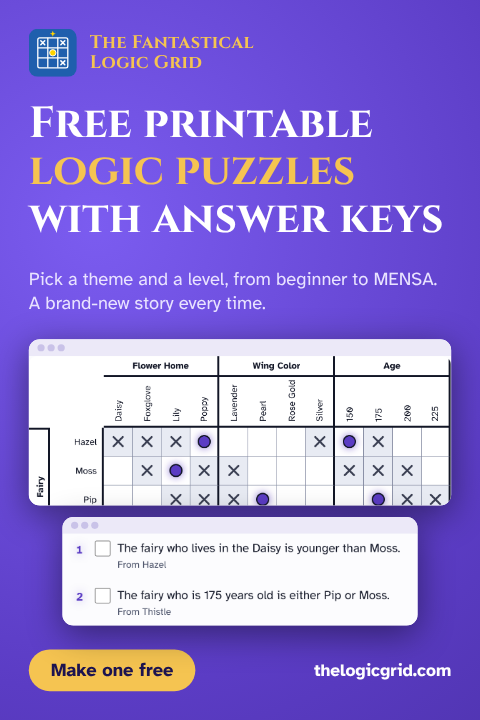
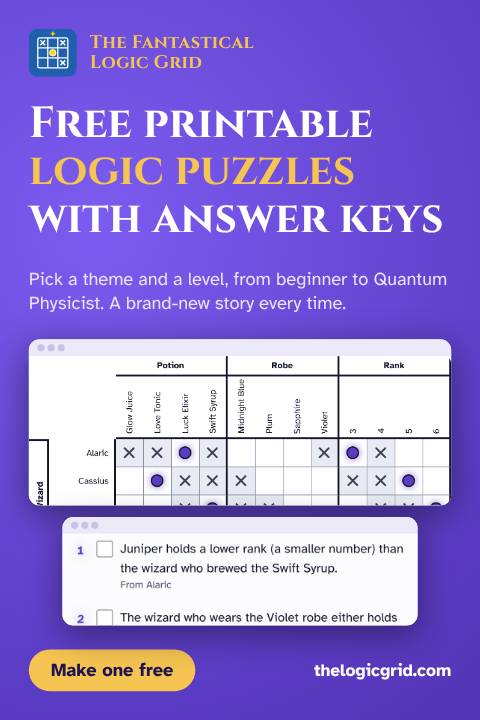
Facebook launch kit: Page cover picture, refreshed marketing pictures, setup email
Adds a 1640x624 Facebook Page cover to the marketing pictures and media
library, regenerates the other pictures so they show the Quantum Physicist
level name, and emails Bobby the Page setup steps, the approved Facebook
ads word for word, and how to give the autopilot access.

Claude-Session: https://claude.ai/code/session_018xMkhvBtvVmUz3Z4AKDa94

diff --git a/server/src/marketing-seed.js b/server/src/marketing-seed.js
@@ -18,6 +18,7 @@ export const SEEDS = [{
     wide: { title: 'Wide post picture', kind: 'image', url: `${RAW}/media/marketing/wide-1600x900.png`, preview: '/admin/marketing-wide.png', size: '1600x900', notes: 'X, Bluesky, Threads, Mastodon, LinkedIn, Reddit.' },
     pin: { title: 'Pinterest pin (printable puzzles)', kind: 'image', url: `${RAW}/media/marketing/pin-1000x1500.png`, preview: '/admin/marketing-pin.png', size: '1000x1500', notes: 'Tall pins get the most room in Pinterest feeds.' },
     gallery: { title: 'Gallery picture (Product Hunt, itch.io, directories)', kind: 'image', url: `${RAW}/media/marketing/gallery-1270x760.png`, preview: '/admin/marketing-gallery.png', size: '1270x760', notes: '' },
+    fbCover: { title: 'Facebook Page cover', kind: 'image', url: `${RAW}/media/marketing/facebook-cover-1640x624.png`, preview: '/admin/marketing-fbcover.png', size: '1640x624', notes: 'The Page\'s cover photo. Phones crop the sides, so the words stay in the middle.' },
     cover: { title: 'itch.io cover', kind: 'image', url: `${RAW}/media/marketing/itch-cover-630x500.png`, preview: '/admin/marketing-cover.png', size: '630x500', notes: '' },
   },
   campaign: {

diff --git a/docs/owner-tasks/2026-10-27-facebook-launch-kit.md b/docs/owner-tasks/2026-10-27-facebook-launch-kit.md
@@ -1,0 +1,81 @@
+# Facebook launch kit: set up the Page, then hand over the posting
+
+You asked for the Facebook ads and launch materials so you can do the first setup yourself, then let the autopilot keep the content going. Everything here is **free**. Do not press **Boost post** or open **Ads Manager**: those cost money, and nothing in this plan needs them.
+
+There are three parts. Part A takes about 15 minutes, Part B is reference copy for later, and Part C takes about 15 minutes.
+
+## Part A: create the Facebook Page (free)
+
+1. Sign in to Facebook with your own account and open <https://www.facebook.com/pages/create>.
+2. Page name: **The Fantastical Logic Grid**. Category: **Video game**.
+3. Bio (98 characters): **Free logic grid puzzles with a new story every time. A daily puzzle, hints that teach, printables.**
+4. Click **Create Page**.
+5. Profile picture: download <https://github.com/bltaylorjr/fantastical-logic-grid/raw/main/web/icons/icon-1024.png> and upload it.
+6. Cover photo: download <https://github.com/bltaylorjr/fantastical-logic-grid/raw/main/media/marketing/facebook-cover-1640x624.png> and upload it. It is sized for Facebook, and the words sit in the middle so phones do not cut them off.
+7. Contact details: website **https://thelogicgrid.com**, email **fantasticallogicgrid@gmail.com**.
+8. Click **Add action button**, choose **Play game**, and use the link **https://thelogicgrid.com/?play=now**
+9. Page **Settings** > **Username**: try **thelogicgrid** (or the closest free name).
+10. Optional: if the game has an Instagram account, link it now under Page **Settings** > **Linked accounts** > **Instagram**.
+11. Reply to this email or tell Claude the Page's web address, so it can go on the website and in the admin Marketing bio links.
+
+## Part B: the approved Facebook ads, word for word
+
+These are already in the admin app under **Marketing** (<https://flg-api.btay74.workers.dev/admin/#marketing>), with the pictures and the tracking links. You only post one by hand.
+
+### 1. Page launch video, Wednesday 4 November (posts itself once Part C is done)
+
+Video: <https://github.com/bltaylorjr/fantastical-logic-grid/raw/main/media/promo/the-fantastical-logic-grid-promo-16x9-captioned.mp4> (90 seconds, captions burned in for sound-off feeds).
+
+Words:
+
+Meet The Fantastical Logic Grid 🧩
+
+Every puzzle comes with its own story: a stolen crown at the castle, a mix-up at the bake sale, a mystery in the national park. Pick your theme and difficulty, then work out who did what, where and when.
+
+✔ Free, plays in your browser
+✔ A new daily puzzle for everyone
+✔ Hints that teach, not tell
+✔ Print it with an answer key
+
+Play now: https://thelogicgrid.com/?play=now&utm_source=facebook&utm_medium=social&utm_campaign=launch-2026&utm_content=page-video
+
+After it posts, **pin it** to the top of the Page (the three dots on the post > **Pin to top of Page**). If Part C is not done by 4 November, you will get the usual by-hand email that morning instead.
+
+### 2. Facebook groups, free printables, Monday 23 November (always by hand)
+
+Picture: <https://github.com/bltaylorjr/fantastical-logic-grid/raw/main/media/marketing/square-1080.png>
+
+Words:
+
+Free printable logic puzzles, made fresh every time 🧩
+
+You pick the theme (pets, cooking, sports, holidays and more) and the level, from Basic for beginners to Quantum Physicist. Each one prints with the story, the clues, the grid and an answer key on its own page. Great for brain breaks, puzzle night or a quiet afternoon.
+
+Make one here: https://thelogicgrid.com/?play=now&utm_source=facebook&utm_medium=community&utm_campaign=launch-2026&utm_content=groups-printable
+
+Only post in puzzle, brain-teaser, homeschool and activity-idea groups whose rules allow free resources, and **no more than one group a day**. Facebook does not let apps post in groups, so this one always stays by hand.
+
+### 3. Teacher posts (waiting for your OK)
+
+Four more Facebook posts for teachers (9 and 10 November, 14 December, 5 January) are drafts in the **Educators 2026** campaign. They post only after you approve them in admin.
+
+## Part C: let the autopilot keep the Page going
+
+"Maintaining content" means this: every day at 10:07 am Eastern the autopilot posts any Facebook or Instagram ad that is **Approved** in admin and due that day, then marks it Posted. New posts are always added as **drafts** for your approval first. It never posts anything you have not approved, never posts in groups, and never spends money.
+
+1. If you use Instagram: in the Instagram app, make the game's account a free **Business** or **Creator** account (**Settings** > **Account type and tools**) and link it to the Page (Part A step 10).
+2. Open <https://developers.facebook.com/apps>, click **Create app**, choose **Other**, then type **Business**. Name it **Logic Grid autopilot**. It stays in development mode, which is free and enough for your own Page.
+3. Open <https://developers.facebook.com/tools/explorer>, choose that app, and click **Generate Access Token** with these permissions: `pages_show_list`, `pages_read_engagement`, `pages_manage_posts`, `instagram_basic`, `instagram_content_publish`, `business_management`. Allow it for the game's Page (and Instagram account).
+4. Open <https://developers.facebook.com/tools/debug/accesstoken>, paste that token, click **Debug**, then **Extend Access Token**, and copy the long-lived token.
+5. Back in the Explorer, paste the long-lived token and run `me/accounts`. Copy the game Page's `access_token` and `id`.
+6. Open <https://github.com/bltaylorjr/fantastical-logic-grid/settings/secrets/actions> and click **New repository secret**.
+7. Name: `META_PAGE_TOKEN`. Secret: the Page `access_token`. Click **Add secret**.
+8. Add `META_PAGE_ID` the same way, with the Page `id`.
+9. For Instagram: in the Explorer, run `<page id>?fields=instagram_business_account` and add its `id` as the secret `INSTAGRAM_ACCOUNT_ID`. Skip this if there is no Instagram account yet.
+10. Test: open <https://github.com/bltaylorjr/fantastical-logic-grid/actions/workflows/marketing-post.yml>, click **Run workflow**, choose mode **check**. Facebook Page (and Instagram) should say connected. Nothing is posted in check mode.
+
+Keep the tokens in a password manager such as Bitwarden (free). Never email or paste them in chat.
+
+**To take access back at any time:** remove the app under Facebook **Settings** > **Business integrations**, or delete the `META_PAGE_TOKEN` secret on GitHub. You can also pause all automatic posting with the **Marketing autopilot** switch in admin **Settings**.
+
+The same steps, with live status, are in admin under **Connections and setup**: <https://flg-api.btay74.workers.dev/admin/#connections>

diff --git a/media/marketing/README.md b/media/marketing/README.md
@@ -11,6 +11,7 @@ listed with the promo videos (`media/promo`) in the admin dashboard's
 | `pin-1000x1500.png` | 1000 x 1500 | Pinterest |
 | `gallery-1270x760.png` | 1270 x 760 | Product Hunt, itch.io, AlternativeTo, Microsoft Store |
 | `itch-cover-630x500.png` | 630 x 500 | itch.io cover |
+| `facebook-cover-1640x624.png` | 1640 x 624 | Facebook Page cover photo |
 
 Each picture also has a `.jpg` twin, because Instagram's posting tool takes JPEG only
 (`scripts/marketing-post.py` swaps `.png` for `.jpg` for Instagram). After a rebuild,
